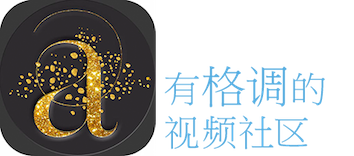
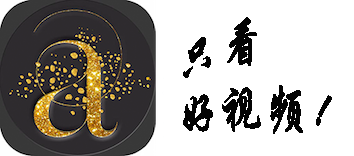
modify tagline image

Changed region(s): [[0.4661, 0.1026, 0.9633, 0.9487]]

diff --git a/amazineapp/public/thirdparty/css/single.css b/amazineapp/public/thirdparty/css/single.css
@@ -290,7 +290,7 @@ div.footer .container {
     line-height: 30px;
     font-size: 20px;
     color: #fff;
-    background-color: #f05a5a;
+    background-color: #000;
   }
   .container {
     padding-top: 10px;
